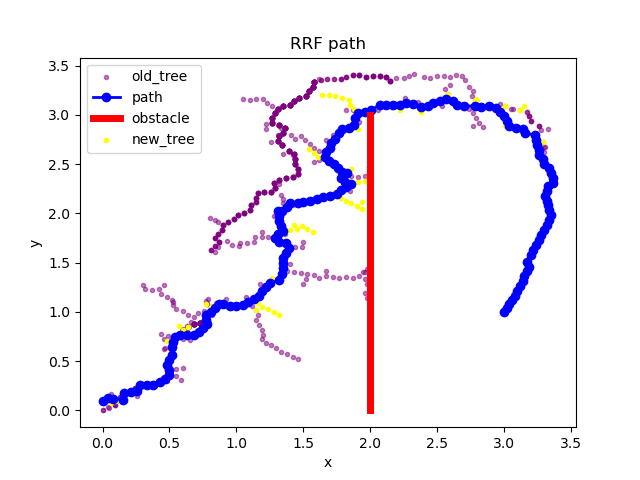
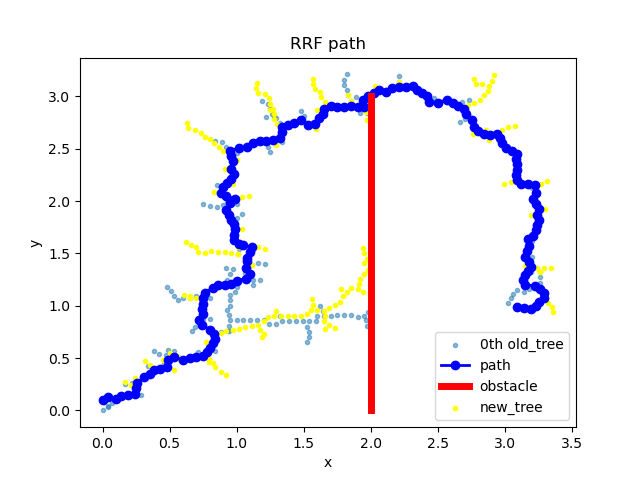
update plots with initial tree

diff --git a/RRFtest.py b/RRFtest.py
@@ -13,9 +13,14 @@ ic = np.array([0, 0, 0, 1, np.pi / 2])
 def plot_forest(forest, path = None):
     new_tree = forest.tree_list[0]
     if len(forest.tree_list) > 1:
-        old_tree = forest.tree_list[1]
-        old_tree_coords = np.array([np.array([x[0], x[1]]) for x in old_tree.coord_list])
-        plt.scatter(old_tree_coords[:, 0], old_tree_coords[:, 1], label='old_tree', marker=".", c="purple", alpha=0.5)
+        old_trees = forest.tree_list[1:]
+        old_tree_coords = []
+        for tree in old_trees:
+           old_tree_coords.append(np.array([np.array([x[0], x[1]]) for x in tree.coord_list]))
+        j = 0
+        for tree_coords in old_tree_coords:
+            plt.scatter(tree_coords[:, 0], tree_coords[:, 1], label=f'{j}th old_tree', marker=".", alpha=0.5)
+            j += 1
     if path is not None:
         path_coord_x = [node.x[0] for node in path if node.part_of_path]
         path_coord_y = [node.x[1] for node in path if node.part_of_path]
@@ -40,6 +45,7 @@ def RRF(robot_state, end_y, type="path"):
     initial_node = tree_lib.Node(x=robot_state[0:2], v=robot_state[2:4], theta=robot_state[4])
     start_time = time.time()
     initial_tree, path = RRTtest.RRT(initial_node, constants.recharge_points[0])
+    RRTtest.plot_tree(initial_tree, path)
     end_time = time.time()
     print("initial tree made")
     time_array.append((end_time - start_time))
@@ -102,10 +108,10 @@ def RRF(robot_state, end_y, type="path"):
         time_array.append((end_time - start_time))
 
 
-        # if k < constants.k_max:
-        #     plot_forest(forest, new_tree.path)
-        # else:
-        #     plot_forest(forest)
+        if k < constants.k_max:
+            plot_forest(forest, new_tree.path)
+        else:
+            plot_forest(forest)
 
 
         if path is not None:
@@ -185,9 +191,9 @@ def RRFsim(robot_state, forest=None):
 
 if __name__ == "__main__":
     n_test = 10
-    end_y = 0.8
-    avg_time_path = np.zeros(10)
-    avg_time_tree = np.zeros(10)
+    end_y = 1.8
+    avg_time_path = np.zeros(9)
+    avg_time_tree = np.zeros(9)
     steps = int(end_y / constants.robot_velocity[1]) + 1
 
     for i in range(n_test):
@@ -201,13 +207,13 @@ if __name__ == "__main__":
         ic_timetest = np.array([0, 0, 0, 1, np.pi / 2])
         _1, _2, time_array_iter = RRF(ic_timetest, end_y, type="tree")
         avg_time_tree += np.array(time_array_iter)
-        print("tree", time_array_iter)
+        print("path", time_array_iter)
     avg_time_tree = avg_time_tree / n_test
 
-    y_coords = np.linspace(0, 10, 10)
+    y_coords = np.arange(0, 9, 1)
     plt.plot(y_coords, avg_time_path, "-o", label="path")
     plt.plot(y_coords, avg_time_tree, "-o", label="tree")
-    plt.xlabel("postion at which path found")
+    plt.xlabel("position at which path found")
     plt.ylabel("time")
     plt.title("time averaged over test cases")
     plt.legend()

diff --git a/constants.py b/constants.py
@@ -21,7 +21,7 @@ forest_trees = 2
 scan_forest_prob = 1
 
 dimension_field = np.array([4, 4])
-obstacle_line = [np.array([2, 0, 2, 3])]
+obstacle_line = [np.array([2, 0, 2, 2]), np.array([2, 2, 3, 2])]
 # obstacle_line = [np.array([0.7, 1, 1.3, 1])]
 recharge_points = [np.array([3, 1])]
 # recharge_points = [np.array([2, 1.5]), np.array([2, 3.5])]
